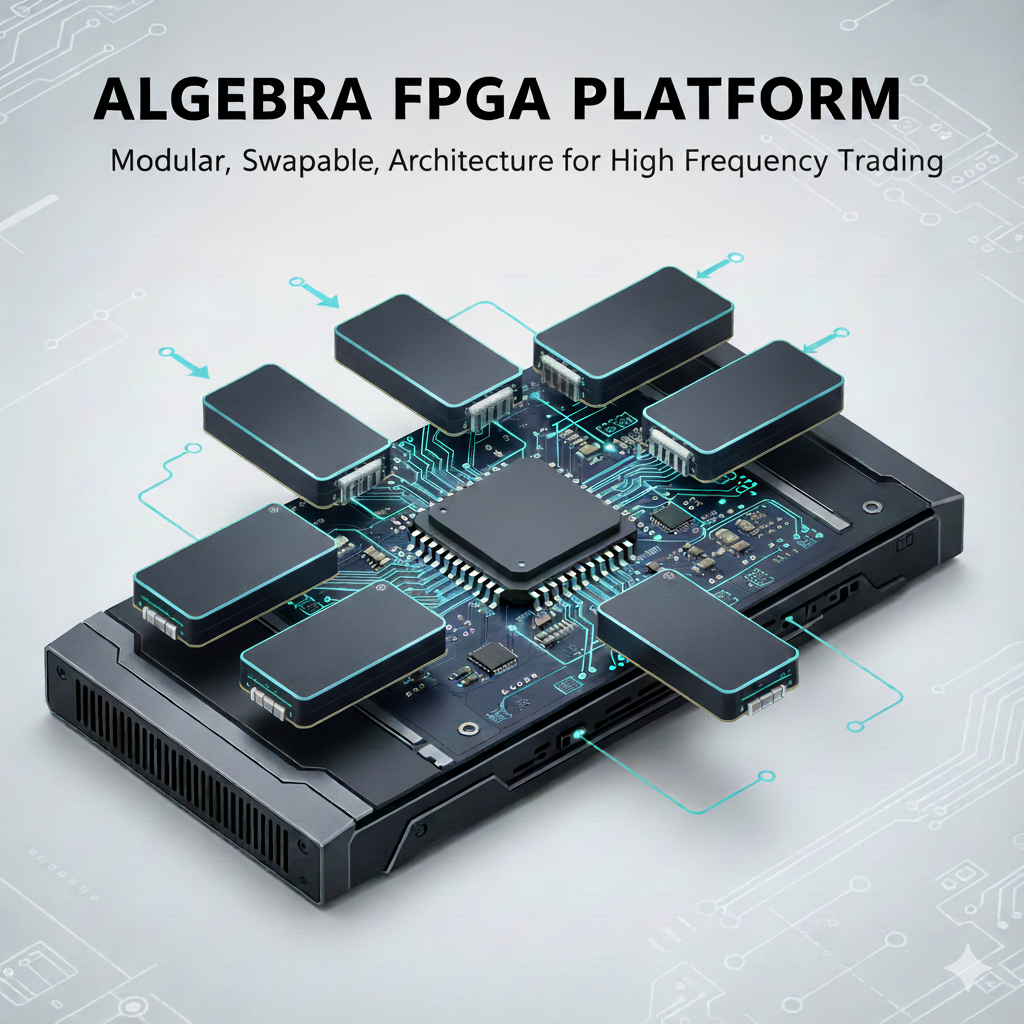
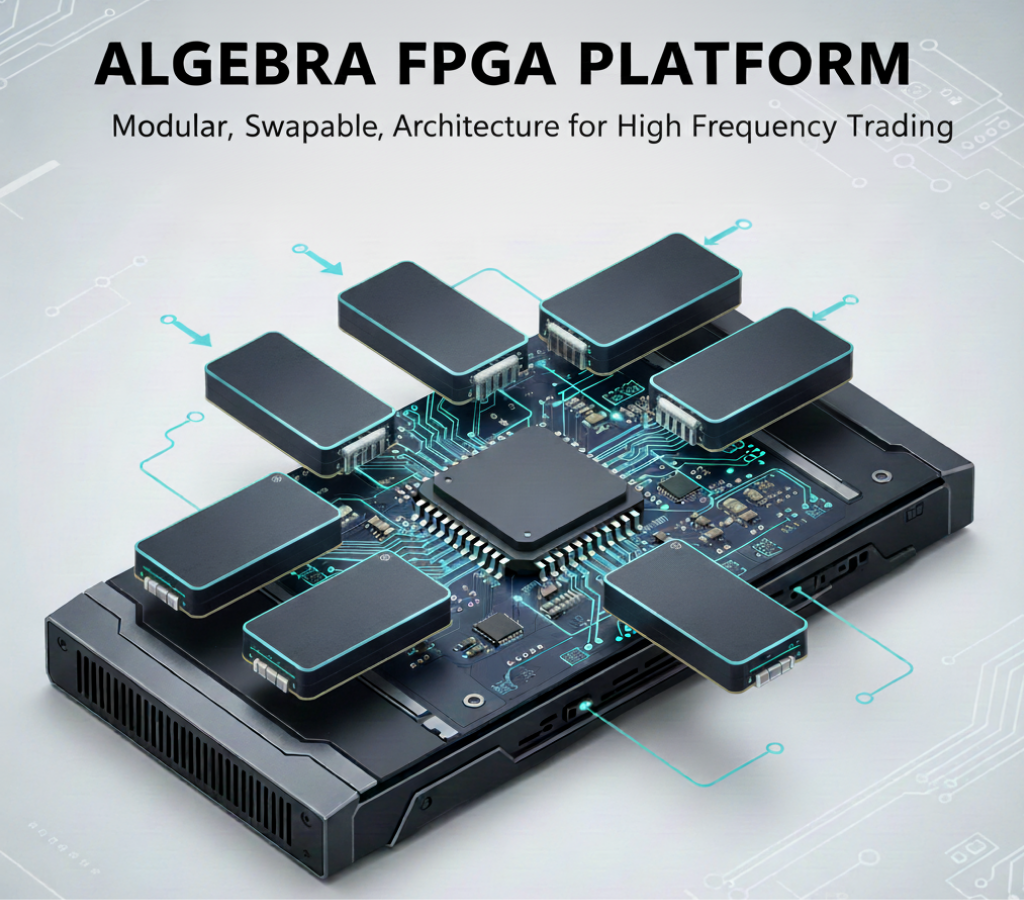
add algebra picture

diff --git a/styles.css b/styles.css
@@ -552,8 +552,29 @@ body {
     line-height: 1.8;
     color: var(--text-gray);
     text-align: center;
-    max-width: 900px;
+    max-width: 1200px;
     margin: 0 auto;
+    overflow: visible;
+}
+
+.intro-text-content {
+    text-align: left;
+    overflow: visible;
+    margin-top: 0;
+}
+
+.intro-text-content p {
+    margin-bottom: 1.5rem;
+    text-align: justify;
+    hyphens: auto;
+}
+
+.intro-text-content p:first-of-type {
+    margin-top: 0;
+}
+
+.intro-text-content p:last-child {
+    margin-bottom: 0;
 }
 
 .intro-title {
@@ -601,7 +622,90 @@ body {
     font-size: 1.5rem;
     font-weight: 600;
     color: var(--primary-color);
-    margin-bottom: 1.5rem;
+    margin-bottom: 2rem;
+}
+
+/* Algebra 圖片容器 - 文繞圖 */
+.algebra-image-container {
+    float: right;
+    width: 32%;
+    max-width: 340px;
+    margin: 0 0 1.5rem 1.8rem;
+    padding: 0;
+    shape-outside: margin-box;
+}
+
+.algebra-image-wrapper {
+    position: relative;
+    border-radius: 16px;
+    overflow: hidden;
+    box-shadow: 0 8px 32px rgba(0, 79, 101, 0.15),
+                0 4px 16px rgba(0, 79, 101, 0.1),
+                inset 0 1px 0 rgba(255, 255, 255, 0.1);
+    background: linear-gradient(135deg, 
+        rgba(0, 79, 101, 0.02) 0%, 
+        rgba(175, 214, 227, 0.05) 50%, 
+        rgba(0, 79, 101, 0.02) 100%);
+    padding: 10px;
+    transition: all 0.4s ease;
+    width: 100%;
+}
+
+.algebra-image-wrapper::before {
+    content: '';
+    position: absolute;
+    top: 0;
+    left: 0;
+    right: 0;
+    bottom: 0;
+    border-radius: 12px;
+    padding: 2px;
+    background: linear-gradient(135deg, 
+        rgba(0, 79, 101, 0.3) 0%, 
+        rgba(175, 214, 227, 0.4) 50%, 
+        rgba(0, 79, 101, 0.3) 100%);
+    -webkit-mask: linear-gradient(#fff 0 0) content-box, linear-gradient(#fff 0 0);
+    -webkit-mask-composite: xor;
+    mask: linear-gradient(#fff 0 0) content-box, linear-gradient(#fff 0 0);
+    mask-composite: exclude;
+    z-index: 1;
+    pointer-events: none;
+}
+
+.algebra-image-wrapper:hover {
+    transform: translateY(-4px);
+    box-shadow: 0 12px 40px rgba(0, 79, 101, 0.2),
+                0 6px 20px rgba(0, 79, 101, 0.15),
+                inset 0 1px 0 rgba(255, 255, 255, 0.15);
+}
+
+.algebra-image {
+    width: 100%;
+    height: auto;
+    display: block;
+    border-radius: 12px;
+    position: relative;
+    z-index: 0;
+    transition: transform 0.4s ease;
+}
+
+.algebra-image-wrapper:hover .algebra-image {
+    transform: scale(1.02);
+}
+
+.algebra-image-overlay {
+    position: absolute;
+    top: 12px;
+    left: 12px;
+    right: 12px;
+    bottom: 12px;
+    border-radius: 12px;
+    background: linear-gradient(135deg, 
+        rgba(0, 79, 101, 0.03) 0%, 
+        transparent 50%, 
+        rgba(175, 214, 227, 0.03) 100%);
+    pointer-events: none;
+    z-index: 1;
 }
 
 .intro-text p {
@@ -611,6 +715,7 @@ body {
 .intro-text p:last-child {
     margin-bottom: 0;
 }
+
 
 .intro-image {
     display: flex;
@@ -1098,6 +1203,33 @@ body {
         gap: 2rem;
     }
     
+    .algebra-image-container {
+        float: none;
+        width: 100%;
+        max-width: 100%;
+        margin: 2rem auto;
+        padding: 0 1rem;
+    }
+    
+    .intro-text-content {
+        text-align: center;
+    }
+    
+    .intro-text-content p {
+        text-align: left;
+    }
+    
+    .algebra-image-wrapper {
+        padding: 8px;
+    }
+    
+    .algebra-image-overlay {
+        top: 8px;
+        left: 8px;
+        right: 8px;
+        bottom: 8px;
+    }
+    
     .use-cases-grid {
         grid-template-columns: 1fr;
     }
@@ -1170,6 +1302,39 @@ body {
     
     .contact-form {
         padding: 1.5rem;
+    }
+    
+    .algebra-image-container {
+        float: none;
+        width: 100%;
+        max-width: 100%;
+        margin: 1.5rem auto;
+        padding: 0;
+    }
+    
+    .intro-text-content {
+        text-align: center;
+    }
+    
+    .intro-text-content p {
+        text-align: left;
+    }
+    
+    .algebra-image-wrapper {
+        padding: 6px;
+        border-radius: 12px;
+    }
+    
+    .algebra-image {
+        border-radius: 8px;
+    }
+    
+    .algebra-image-overlay {
+        top: 6px;
+        left: 6px;
+        right: 6px;
+        bottom: 6px;
+        border-radius: 8px;
     }
 }
 

diff --git a/index.html b/index.html
@@ -162,8 +162,16 @@
                         </span>
                     </h2>
                     <p class="intro-equation">Algebra - Colo 高頻交易架構</p>
-                    <p>兆獅科技團隊匯聚了來自數據分析、金融交易、網路架構與硬體設計等多元領域的頂尖人才。我們透過專業數據分析領域擁有深厚的技術底蘊，能夠精準解析市場數據的微觀交易行為；在金融理解方面，團隊成員不只具備豐富的交易實務經驗，更深刻理解交易所與券商規範；在網路架構設計上，我們專注於超低延遲網路封包，確保交易指令即時傳遞；在硬體設計層面，我們精通 FPGA 與專用硬體加速技術，將計算性能推向極致。</p>
-                    <p>基於這些跨領域的專業經驗，我們創新設計出 Algebra 交易架構 —— 一個完全符合現代高頻交易需求、具備高度彈性擴展能力，並擁有市場最快執行速度的 Colo FPGA 交易系統。Algebra 架構不僅能夠適應多樣化的交易策略需求，更能在瞬息萬變的市場環境中保持極致的性能表現，為交易機構提供無與倫比的技術競爭優勢。</p>
+                    <div class="algebra-image-container">
+                        <div class="algebra-image-wrapper">
+                            <img src="./algebra.png" alt="Algebra FPGA Platform - Modular, Swapable, Architecture for High Frequency Trading" class="algebra-image">
+                            <div class="algebra-image-overlay"></div>
+                        </div>
+                    </div>
+                    <div class="intro-text-content">
+                        <p>兆獅科技團隊匯聚了來自數據分析、金融交易、網路架構與硬體設計等多元領域的頂尖人才。我們透過專業數據分析領域擁有深厚的技術底蘊，能夠精準解析市場數據的微觀交易行為；在金融理解方面，團隊成員不只具備豐富的交易實務經驗，更深刻理解交易所與券商規範；在網路架構設計上，我們專注於超低延遲網路封包，確保交易指令即時傳遞；在硬體設計層面，我們精通 FPGA 與專用硬體加速技術，將計算性能推向極致。</p>
+                        <p>基於這些跨領域的專業經驗，我們創新設計出 Algebra 交易架構 —— 一個完全符合現代高頻交易需求、具備高度彈性擴展能力，並擁有市場最快執行速度的 Colo FPGA 交易系統。Algebra 架構不僅能夠適應多樣化的交易策略需求，更能在瞬息萬變的市場環境中保持極致的性能表現，為交易機構提供無與倫比的技術競爭優勢。</p>
+                    </div>
                 </div>
             </div>
         </div>
